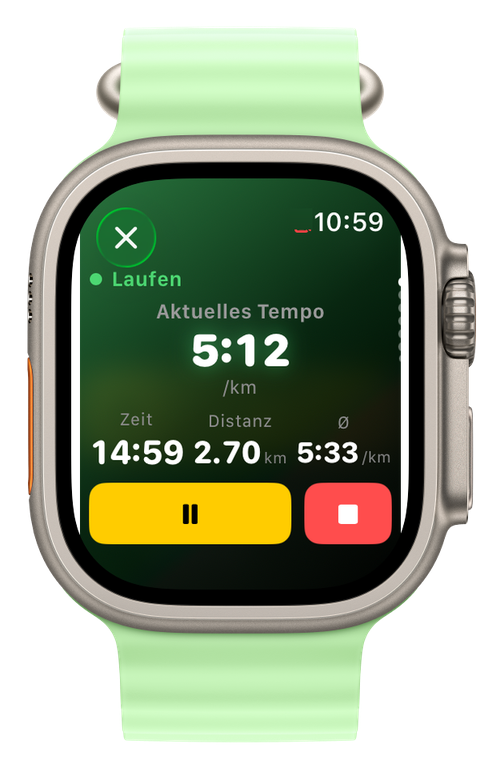
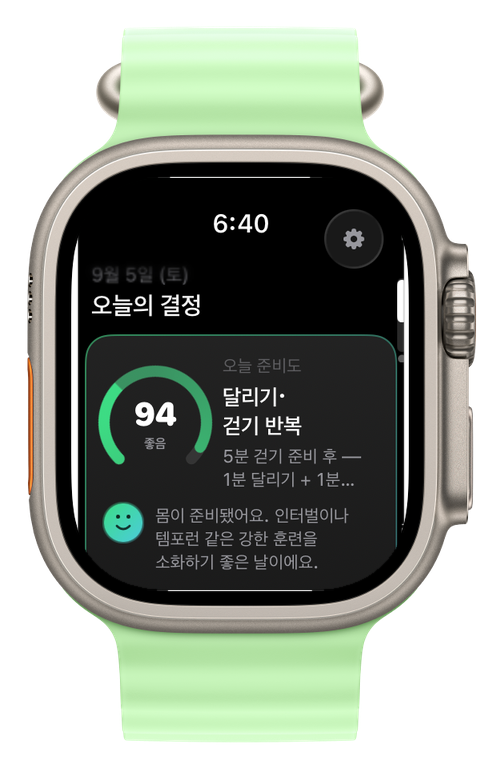
홈페이지: 워치 캡처 6종을 새 워치 앱 실제 화면으로 (시뮬 실캡처)
오늘의 결정·오늘의 근거·운동 시작(오늘의 훈련)·페이스·심박존·지도.
히어로 워치 로테이션 6장, #screens 워치 3-up 한 줄 추가, alt·캡션 6개
언어. "재현 이미지" 문구를 "시뮬레이터 실제 화면"으로 정정.

Changed region(s): [[0.1562, 0.2188, 0.8438, 0.7812]]

diff --git a/index.html b/index.html
@@ -426,17 +426,20 @@
            </div>
 
          (자막 타이핑 루프는 그대로 유지 — heroCaption id만 남기면 됨.)
-         지금은 라이브 SVG 워치 목업으로 대체 중.
+         지금은 워치 시뮬레이터 실캡처 로테이션으로 대체 중.
     ============================================================= -->
 <div class="stage reveal">
 <div class="hero-devices">
 <!-- iPhone 홈: 오늘의 결정(준비도 → 오늘의 훈련 → 왜?) — 시뮬레이터 실캡처 -->
 <div class="hero-phone"><img alt="iPhone 홈 — 오늘의 결정: 준비도 94, 달리기·걷기 반복, 수면·HRV·어제 부하와 '왜?'" data-i18n-attr="alt:alt.phone.hero" src="assets/framed-phone-dash.png" data-shot="framed-phone-dash"/></div>
-<!-- 같은 베젤에 화면만 다른 3장 → 크로스페이드 로테이션 -->
+<!-- 같은 베젤에 화면만 다른 6장(워치 시뮬레이터 실캡처) → 크로스페이드 로테이션 -->
 <div class="watch-stack" id="watchStack">
-<img alt="Apple Watch Ultra에 표시된 Runvis 현재 페이스 화면" data-i18n-attr="alt:alt.watch.pace" class="watch on" src="assets/framed-watch-hero.png" data-shot="framed-watch-hero"/>
-<img alt="Runvis 심박존 아크 화면" data-i18n-attr="alt:alt.watch.zone" class="watch" src="assets/framed-watch-hr.png" data-shot="framed-watch-hr"/>
-<img alt="Runvis 실시간 GPS 지도 화면" data-i18n-attr="alt:alt.watch.map" class="watch" src="assets/framed-watch-map.png" data-shot="framed-watch-map"/>
+<img alt="Apple Watch Ultra — Runvis 오늘의 결정: 준비도 94 링, 달리기·걷기 반복" data-i18n-attr="alt:alt.watch.decision" class="watch on" src="assets/framed-watch-hero.png" data-shot="framed-watch-hero"/>
+<img alt="Apple Watch Ultra — Runvis 오늘의 근거: 수면 7.2h·HRV 48ms·어제 부하 70" data-i18n-attr="alt:alt.watch.evidence" class="watch" src="assets/framed-watch-evidence.png" data-shot="framed-watch-evidence"/>
+<img alt="Apple Watch Ultra — Runvis 운동 시작: 오늘의 훈련 카드(달리기·걷기 반복)" data-i18n-attr="alt:alt.watch.start" class="watch" src="assets/framed-watch-start.png" data-shot="framed-watch-start"/>
+<img alt="Apple Watch Ultra — Runvis 러닝 중 현재 페이스 5:12/km, 평균·속도·GAP·경사" data-i18n-attr="alt:alt.watch.pace" class="watch" src="assets/framed-watch-pace.png" data-shot="framed-watch-pace"/>
+<img alt="Apple Watch Ultra — Runvis 심박존 아크: 135bpm, 존 2" data-i18n-attr="alt:alt.watch.zone" class="watch" src="assets/framed-watch-hr.png" data-shot="framed-watch-hr"/>
+<img alt="Apple Watch Ultra — Runvis 러닝 중 실시간 GPS 지도와 거리·시간·페이스" data-i18n-attr="alt:alt.watch.map" class="watch" src="assets/framed-watch-map.png" data-shot="framed-watch-map"/>
 </div>
 </div>
 <div class="caption"><span class="mic">🔊</span><span class="txt" id="heroCaption"></span></div>
@@ -625,15 +628,20 @@
 <div class="wrap">
 <div class="eyebrow reveal" data-i18n="eb.screens">앱 화면</div>
 <h2 class="reveal" data-i18n="t73">손목 위의 전문가 수준 분석</h2>
-<p class="sub reveal" data-i18n="t74">Apple Watch에서 바로 보고, 아이폰에서 깊이 들여다봅니다. 아이폰 화면은 시뮬레이터에서 찍은 실제 앱 화면, 워치 화면은 재현 이미지입니다.</p>
+<p class="sub reveal" data-i18n="t74">Apple Watch에서 바로 보고, 아이폰에서 깊이 들여다봅니다. 아래는 시뮬레이터에서 찍은 실제 앱 화면입니다.</p>
 <p class="sc-note reveal" data-i18n="sc.note"></p>
-<!-- 워치 3-up: 실사 워치 프레임 안에 우리 SVG 화면. -->
+<!-- 워치 3-up ×2: Apple 베젤 안에 워치 시뮬레이터 실캡처(tools/regenerate-screens.md). -->
 <div class="watch3">
-<div class="w3 reveal"><div class="frame"><img alt="Apple Watch Ultra 심박존 아크 화면" data-i18n-attr="alt:alt.watch.zone" loading="lazy" src="assets/framed-watch-hr.png" data-shot="framed-watch-hr"/></div><b data-i18n="t75">심박존 아크</b><span data-i18n="t76">270° 아크에 5개 심박존. 현재 존에 맞춰 숫자 색이 바뀌고 마커가 아크 위를 움직입니다.</span></div>
-<div class="w3 reveal"><div class="frame"><img alt="Apple Watch Ultra 페이스 화면" data-i18n-attr="alt:alt.watch.pace" loading="lazy" src="assets/framed-watch-pace.png" data-shot="framed-watch-pace"/></div><b data-i18n="t77">현재 · 평균 페이스</b><span data-i18n="t78">손목을 들면 현재 페이스가 크게, 평균과 거리도 함께. 3초 뒤 자동으로 사라집니다.</span></div>
-<div class="w3 reveal"><div class="frame"><img alt="Apple Watch Ultra GPS 지도 화면" data-i18n-attr="alt:alt.watch.map" loading="lazy" src="assets/framed-watch-map.png" data-shot="framed-watch-map"/></div><b data-i18n="t79">실시간 GPS 지도</b><span data-i18n="t80">달리는 중 경로가 그려지고, 출발점 복귀 방향까지. 끝나면 아이폰에서 3D 플라이오버로.</span></div>
+<div class="w3 reveal"><div class="frame"><img alt="Apple Watch Ultra — Runvis 오늘의 결정: 준비도 94 링, 달리기·걷기 반복" data-i18n-attr="alt:alt.watch.decision" loading="lazy" src="assets/framed-watch-hero.png" data-shot="framed-watch-hero"/></div><b data-i18n="ws1">오늘의 결정</b><span data-i18n="ws2">손목에서 바로 준비도 링과 오늘의 훈련. 아이폰을 꺼내지 않아도 오늘 뭘 할지 압니다.</span></div>
+<div class="w3 reveal"><div class="frame"><img alt="Apple Watch Ultra — Runvis 오늘의 근거: 수면 7.2h·HRV 48ms·어제 부하 70" data-i18n-attr="alt:alt.watch.evidence" loading="lazy" src="assets/framed-watch-evidence.png" data-shot="framed-watch-evidence"/></div><b data-i18n="ws3">오늘의 근거</b><span data-i18n="ws4">수면·HRV·어제 부하를 내 28일 기준 범위와 비교해 좋음·보통·주의로 표시합니다.</span></div>
+<div class="w3 reveal"><div class="frame"><img alt="Apple Watch Ultra — Runvis 운동 시작: 오늘의 훈련 카드(달리기·걷기 반복)" data-i18n-attr="alt:alt.watch.start" loading="lazy" src="assets/framed-watch-start.png" data-shot="framed-watch-start"/></div><b data-i18n="ws5">오늘의 훈련, 한 번에 시작</b><span data-i18n="ws6">플랜의 오늘 세션이 시작 화면 맨 위에. 누르면 코치가 구간별로 진행합니다.</span></div>
 </div>
-<!-- iPhone 대시보드: 실사 폰 프레임 안에 우리 대시보드 SVG -->
+<div class="watch3">
+<div class="w3 reveal"><div class="frame"><img alt="Apple Watch Ultra — Runvis 심박존 아크: 135bpm, 존 2" data-i18n-attr="alt:alt.watch.zone" loading="lazy" src="assets/framed-watch-hr.png" data-shot="framed-watch-hr"/></div><b data-i18n="t75">심박존 아크</b><span data-i18n="t76">270° 아크에 5개 심박존. 현재 존에 맞춰 숫자 색이 바뀌고 마커가 아크 위를 움직입니다.</span></div>
+<div class="w3 reveal"><div class="frame"><img alt="Apple Watch Ultra — Runvis 러닝 중 현재 페이스 5:12/km, 평균·속도·GAP·경사" data-i18n-attr="alt:alt.watch.pace" loading="lazy" src="assets/framed-watch-pace.png" data-shot="framed-watch-pace"/></div><b data-i18n="t77">현재 · 평균 페이스</b><span data-i18n="t78">손목을 들면 현재 페이스가 크게, 평균과 거리도 함께. 3초 뒤 자동으로 사라집니다.</span></div>
+<div class="w3 reveal"><div class="frame"><img alt="Apple Watch Ultra — Runvis 러닝 중 실시간 GPS 지도와 거리·시간·페이스" data-i18n-attr="alt:alt.watch.map" loading="lazy" src="assets/framed-watch-map.png" data-shot="framed-watch-map"/></div><b data-i18n="t79">실시간 GPS 지도</b><span data-i18n="t80">달리는 중 경로가 그려지고, 출발점 복귀 방향까지. 끝나면 아이폰에서 3D 플라이오버로.</span></div>
+</div>
+<!-- iPhone 홈: Apple 베젤 안에 iPhone 시뮬레이터 실캡처 -->
 <div class="phonerow reveal">
 <div class="phone-frame"><img alt="iPhone 홈 — 오늘의 결정과 준비도" data-i18n-attr="alt:alt.phone.dash" loading="lazy" src="assets/framed-phone-dash.png" data-shot="framed-phone-dash"/></div>
 <div class="phone-desc">
@@ -1060,7 +1068,7 @@ document.querySelectorAll('.vchip').forEach((c,idx)=>{
   setTimeout(settleOnce, 9000);
 })();
 
-// --- hero watch screen rotation (pace → HR zones → GPS map) ---
+// --- hero watch screen rotation (오늘의 결정 → 근거 → 운동 시작 → 페이스 → 심박존 → 지도) ---
 (() => {
   const slides = document.querySelectorAll('#watchStack .watch');
   if (slides.length < 2) return;

diff --git a/tools/regenerate-screens.md b/tools/regenerate-screens.md
@@ -6,8 +6,14 @@
 ## ⚠ 현재 상태 (2026-07-26)
 - **폰 4종(dash·detail·plan·race)은 실기기 스크린샷으로 교체됨.** 아래 "A. 실기기
   경로"를 쓸 것. SVG 목업은 앱과 어긋나기 시작했다(탭 3개 vs 실제 4개).
-- **워치 4종은 아직 SVG 목업.** 운동 중 화면이라 워치 시뮬레이터에서 러닝 세션을
-  띄워야 하므로 별도 작업. 그때까지는 아래 "B. SVG 경로" 유지.
+- **워치 6종(hero=오늘의 결정·evidence=오늘의 근거·start=운동 시작·pace·hr·map)도
+  2026-09-05부터 워치 시뮬레이터 실캡처.** Ultra 3 시뮬 `xcrun simctl io <UDID> screenshot`
+  (422×514) → 기존 framed-watch-*.png를 도너로 스크린 구멍(79,178)-(403,590)에 cover-fit 합성
+  (PIL, 마스크는 도너 4장의 픽셀 차이로 추출). 러닝 중 화면은
+  `xcrun simctl location <UDID> start --speed=3.2 37.52,126.93 37.523,126.932 …`로 이동 시뮬 후
+  러닝 시작(위치 권한 → 브리핑 "건너뛰고 바로 달리기") 1~2분 뒤 캡처. 워치 UserDefaults
+  `planDaysPerWeek=3`, `c25kStartDate`(이번 주), `isDeveloperGodMode=1`로 오늘의 훈련 카드가
+  아이폰과 같은 세션(달리기·걷기 반복)·잠금 해제 상태로 나오게 맞출 것.
 
 ---
 
